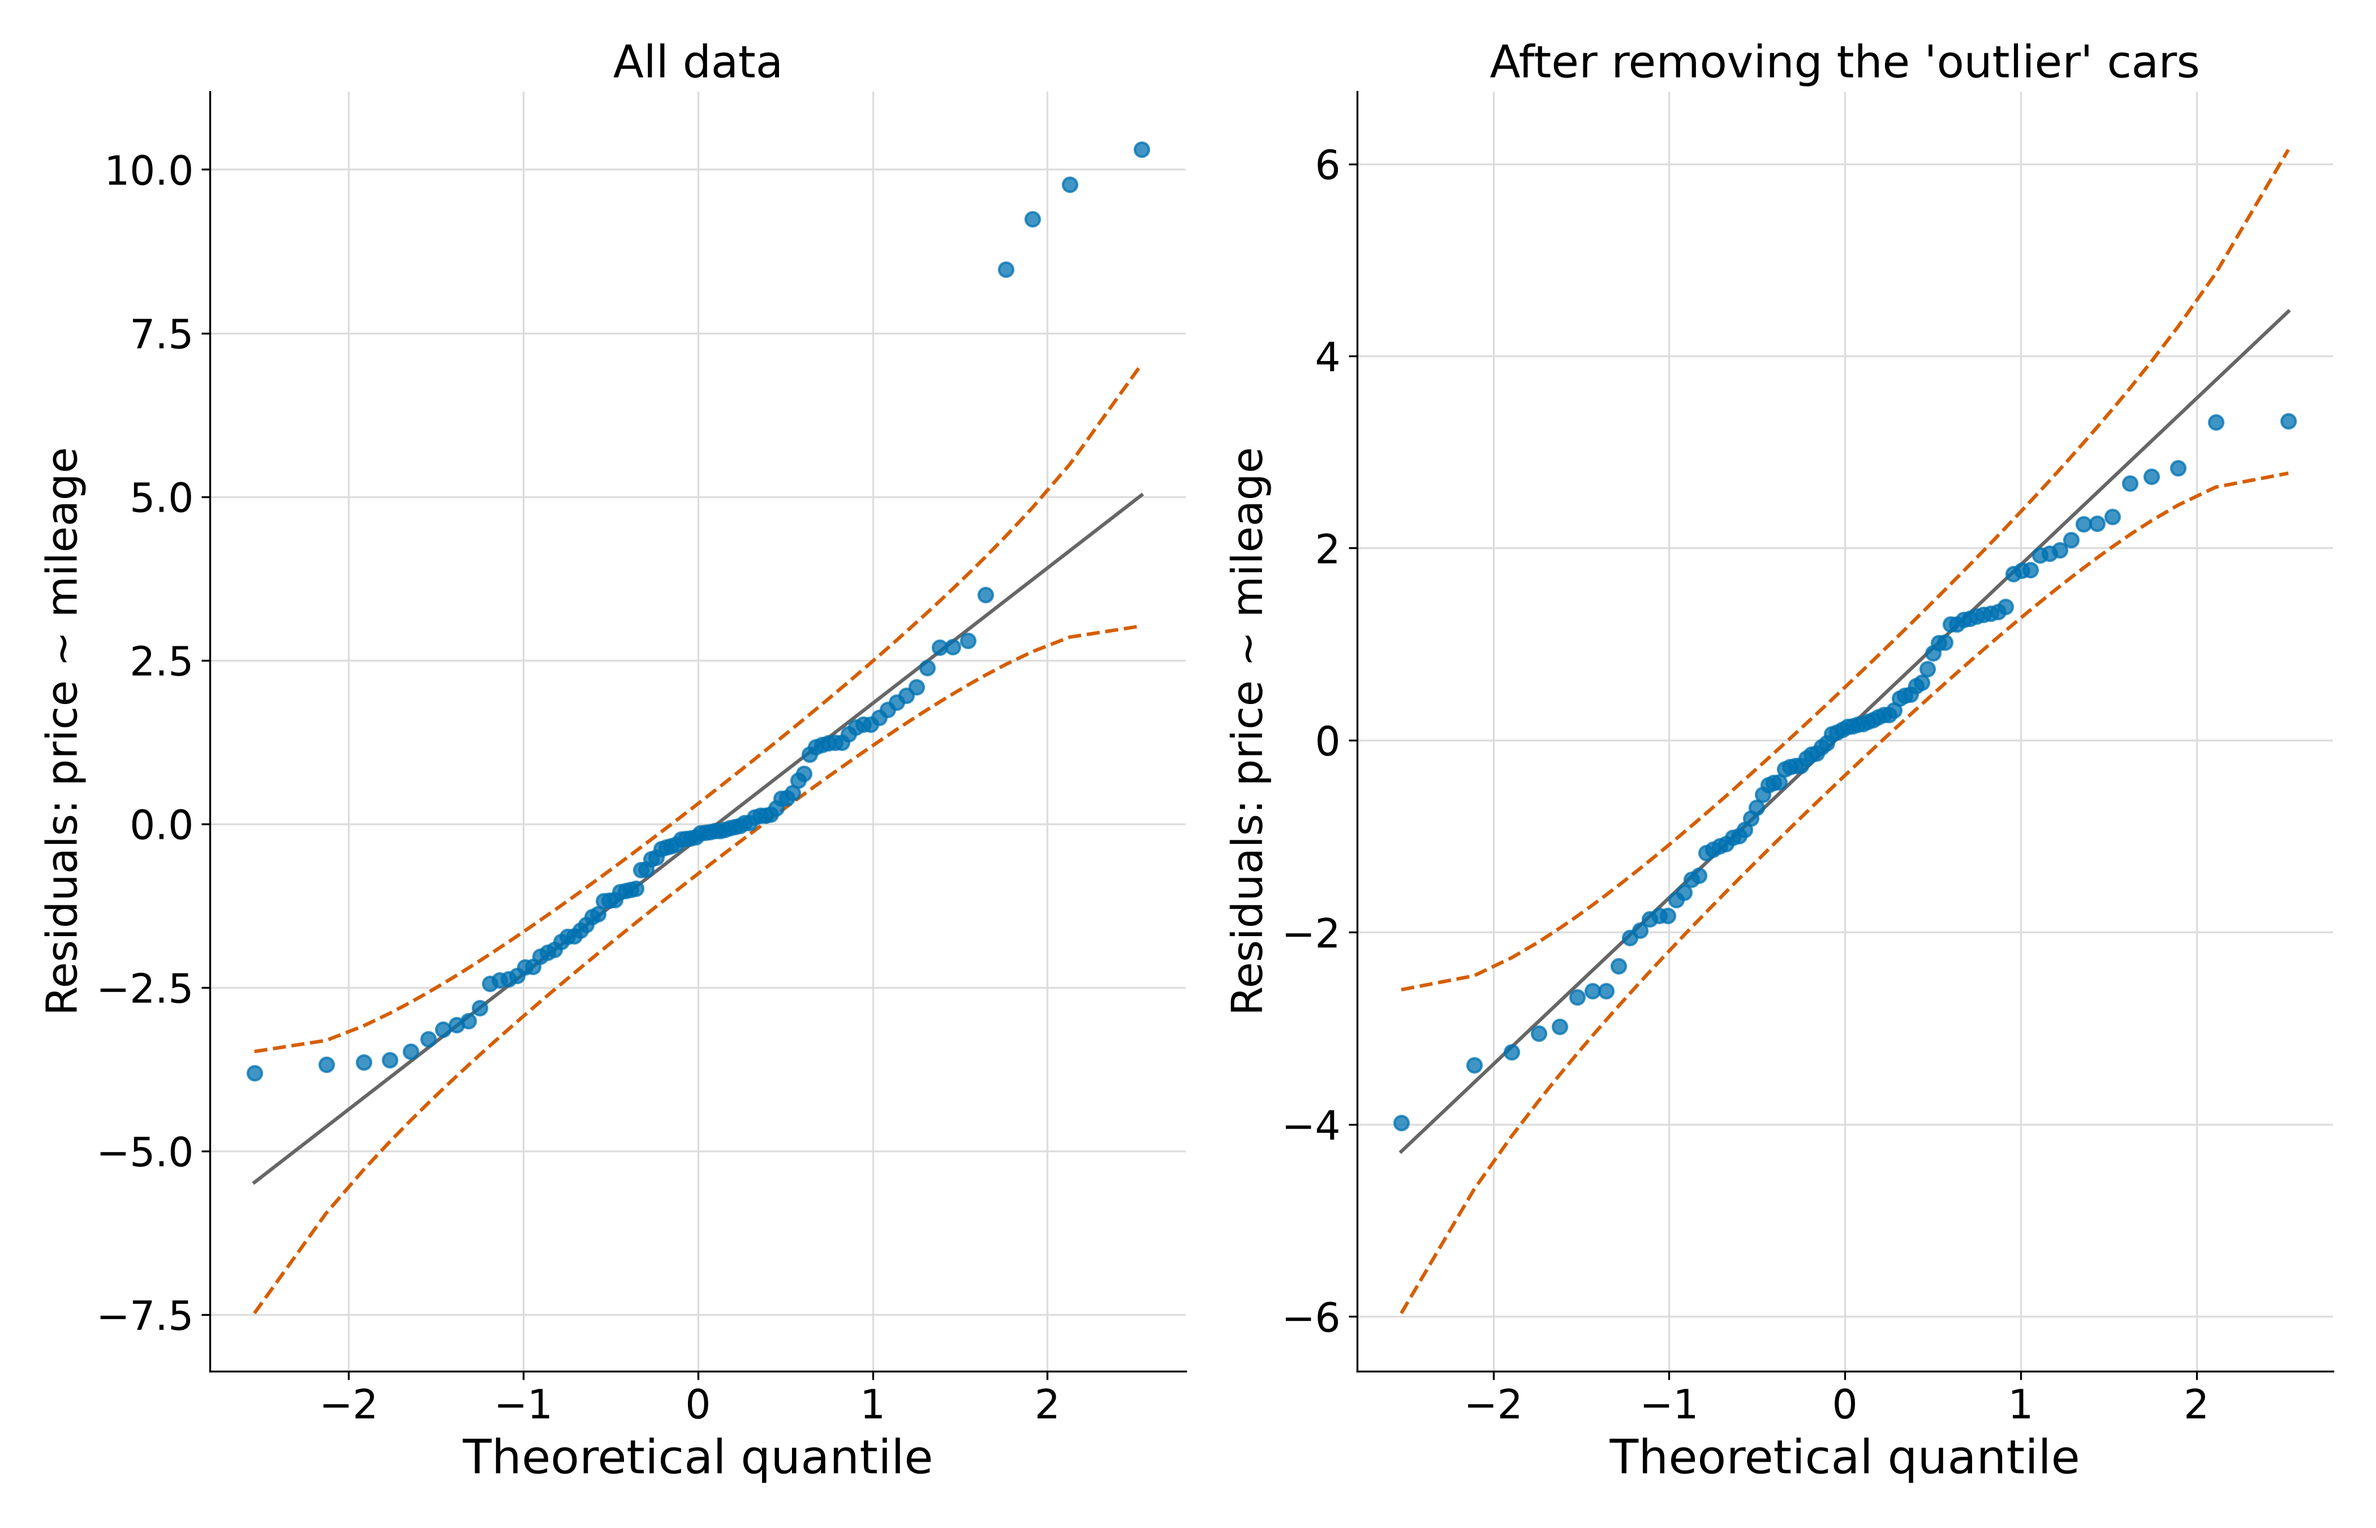
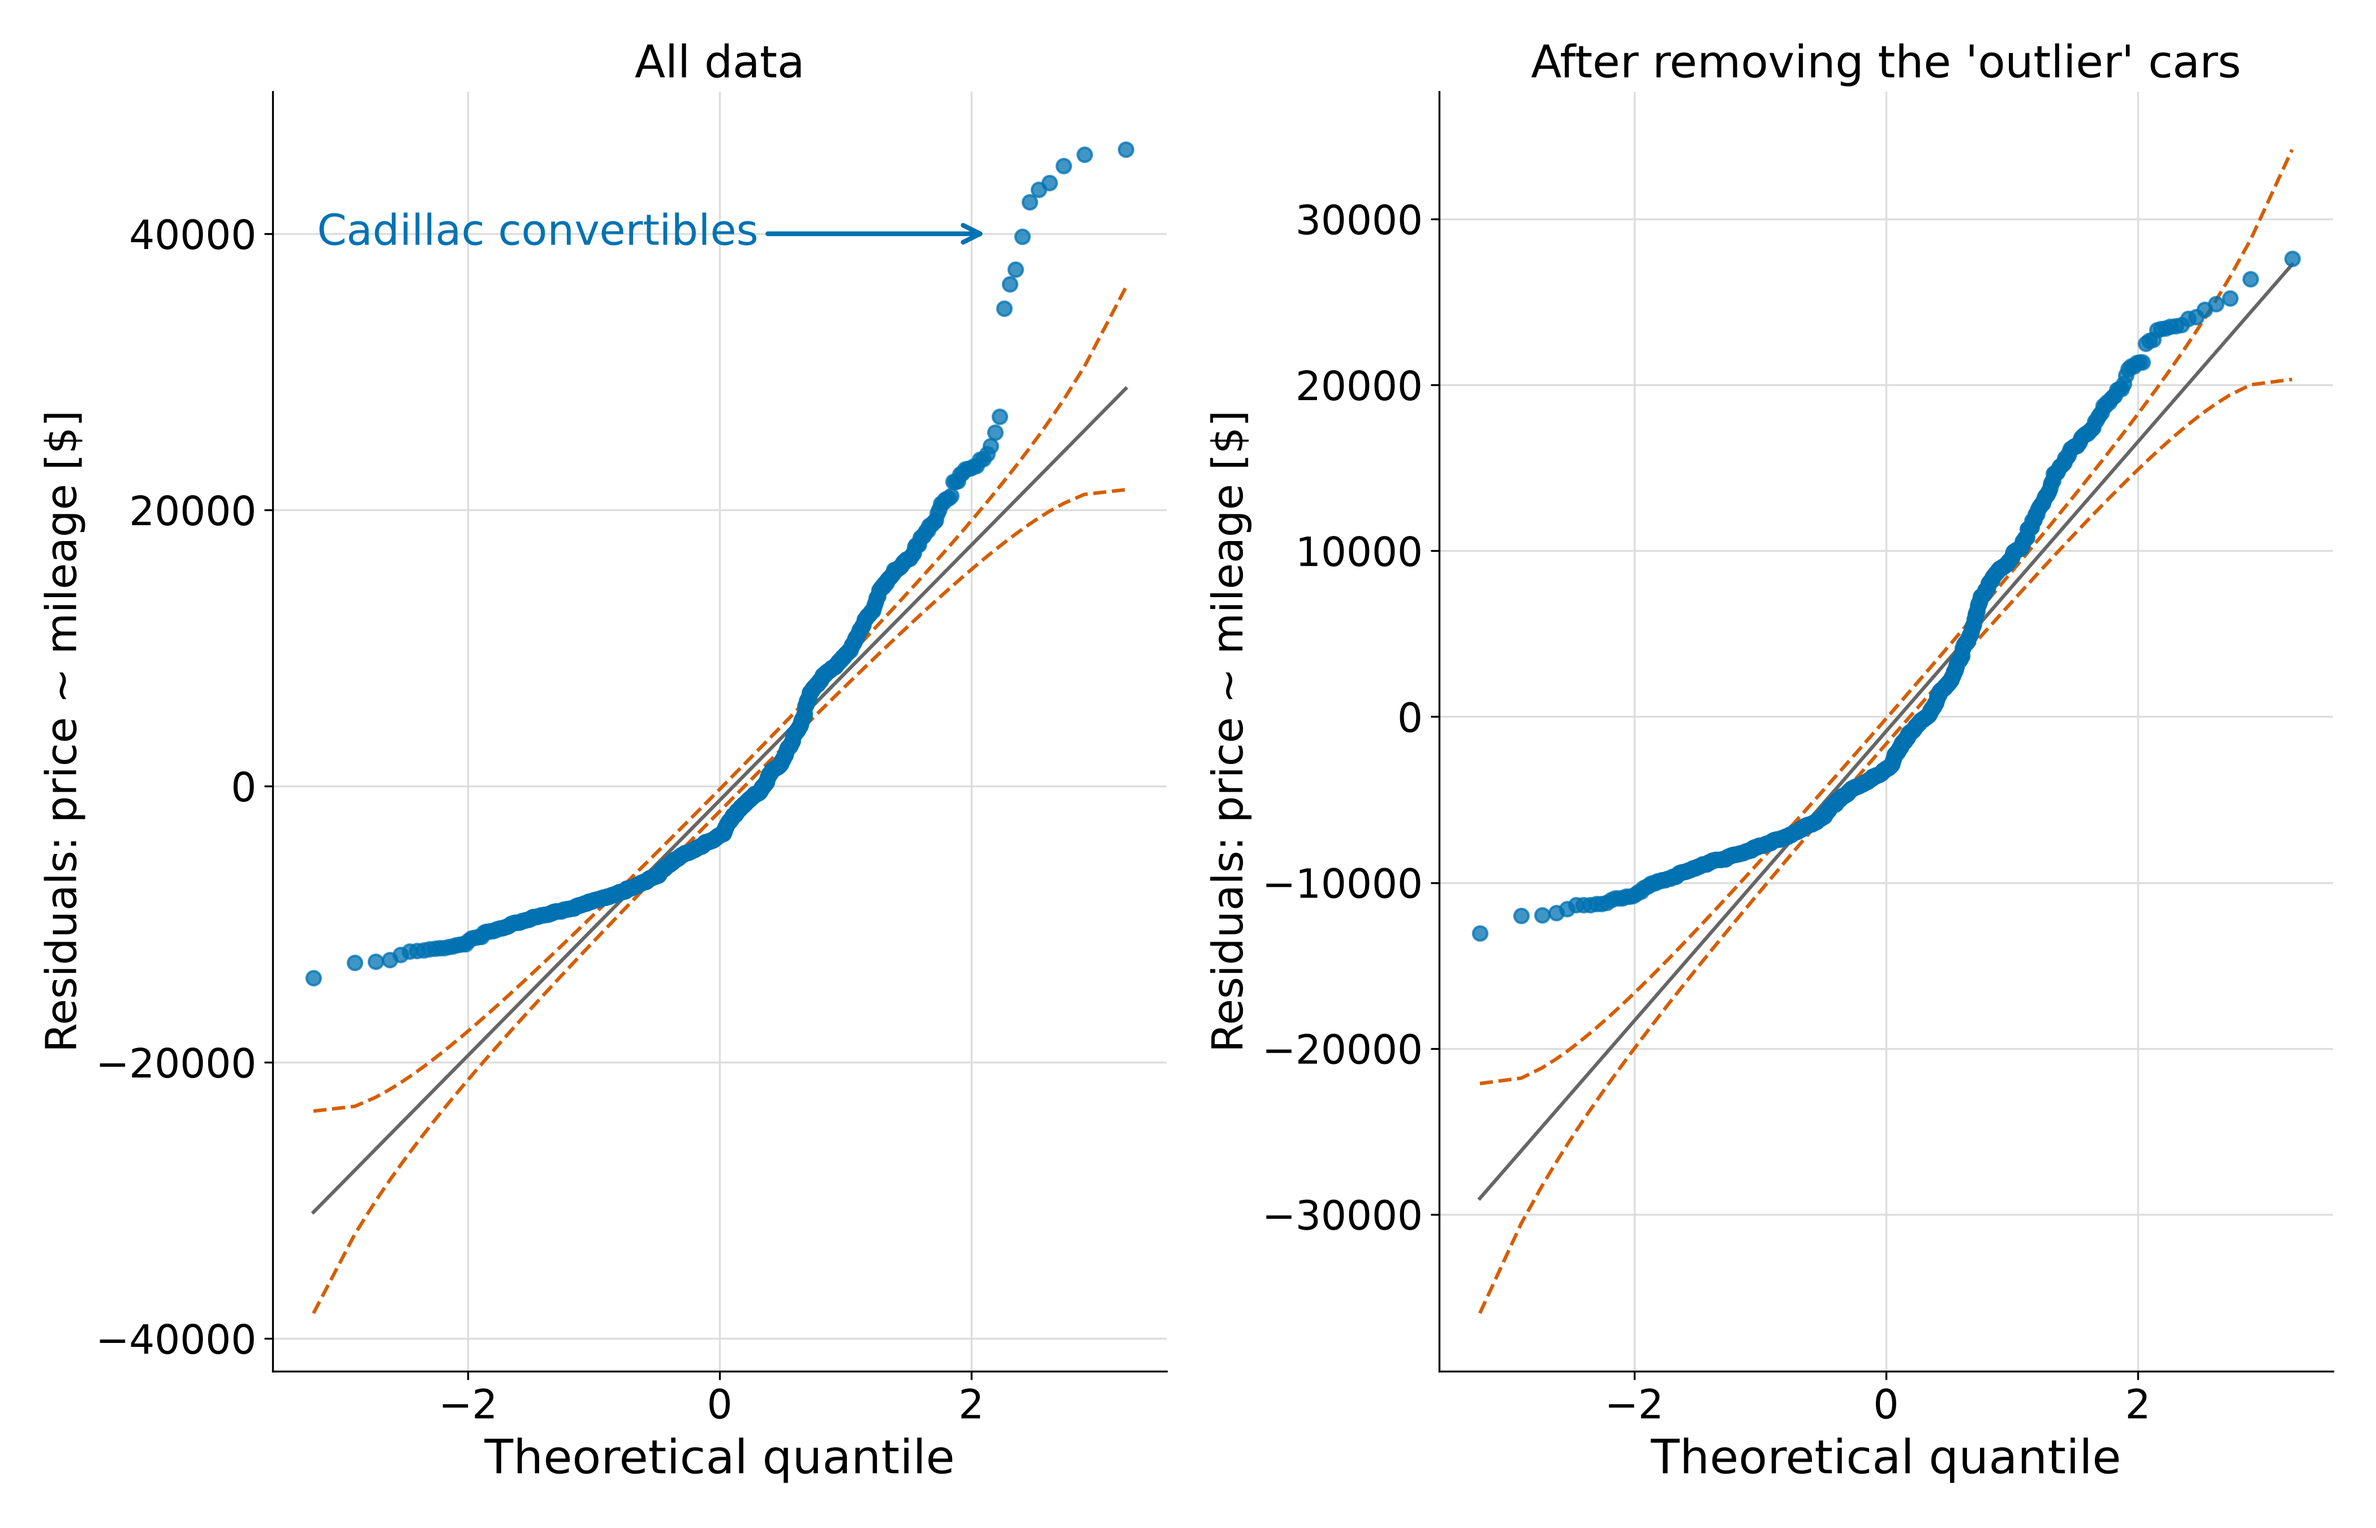
Rebuild the used-vehicle residual q-q figure from the real Kuiper dataset
The replacement figure had substituted simulated data in thousands of
dollars, which changed the y axis and contradicted the chapter: the
prose quotes b1 = -0.173 with SE = $9789 (all data) and b1 = -0.155
with SE = $8655 (Cadillacs removed), and states the residuals stay
very non-normal after removal.

Rebuilt from kuiper.csv (already in this directory, and what the old
non-normal-errors.R read): 804 vehicles, residuals in dollars spanning
-14,000 to +46,000, rows 151-160 removed for the second panel, and the
original's "Cadillac convertibles" annotation restored. The script
prints the slope and standard error on every run; both pairs reproduce
the prose exactly, and the after-removal panel remains visibly
non-normal, as the text says.

Claude-Session: https://claude.ai/code/session_013gbucEbmko1QaQPZDrjLhx

diff --git a/least-squares/regression_diagnostics_figures.py b/least-squares/regression_diagnostics_figures.py
@@ -23,10 +23,12 @@ scripts (``correlation-calculation.R``, ``show-residual-patterns.R``,
   nonlinear system with a locally linear model region, and the
   residual plots that reveal the nonlinearity when the whole range is
   fit with a straight line.
-- ``non-normal-errors-outliers.png``: q-q plots of residuals from a
-  price-mileage model, before and after removing a handful of
-  collector cars (illustrative simulated stand-in for the original
-  cars dataset).
+- ``non-normal-errors-outliers.png``: q-q plots of the residuals from
+  the price-mileage model of the 804-vehicle Kuiper dataset
+  (``kuiper.csv``, in this directory), before and after removing the
+  ten Cadillac convertibles. The slope and standard error printed on
+  each run match the numbers quoted in the chapter (b1 = -0.173 and
+  SE = $9789 before; b1 = -0.155 and SE = $8655 after).
 - ``non-normal-errors-transformation-required.png``: residual q-q
   plots before and after a square-root transformation of y.
 - ``logistic-regression-function.png``: an S-shaped link function
@@ -388,23 +390,37 @@ def nonlinear_detection(outdir: pathlib.Path) -> None:
 
 
 def non_normal_errors(outdir: pathlib.Path) -> None:
-    rng = np.random.default_rng(9)
-    n = 90
-    mileage = rng.uniform(20, 120, n)  # thousands of km
-    price = 25.0 - 0.12 * mileage + rng.normal(0, 1.6, n)  # thousands
-    collectors = rng.choice(n, 4, replace=False)
-    price[collectors] += rng.uniform(6, 12, 4)
+    # The real dataset the original used (kuiper.csv, in this
+    # directory): 804 used GM vehicles, price against mileage. Rows
+    # 151 to 160 are the Cadillac convertibles the prose discusses.
+    import pandas as pd
 
-    _, _, _, resid_all = _fit(mileage, price)
-    keep = np.ones(n, dtype=bool)
-    keep[collectors] = False
-    _, _, _, resid_clean = _fit(mileage[keep], price[keep])
+    cars = pd.read_csv(pathlib.Path(__file__).parent / "kuiper.csv")
+    mileage = cars["Mileage"].to_numpy(dtype=float)
+    price = cars["Price"].to_numpy(dtype=float)
+    slope_all, _, _, resid_all = _fit(mileage, price)
+
+    keep = np.ones(len(cars), dtype=bool)
+    keep[150:160] = False
+    slope_rm, _, _, resid_clean = _fit(mileage[keep], price[keep])
+    for label, slope, resid, k in (
+        ("all data", slope_all, resid_all, 2),
+        ("Cadillacs removed", slope_rm, resid_clean, 2),
+    ):
+        se = np.sqrt(np.sum(resid ** 2) / (len(resid) - k))
+        print(f"price ~ mileage, {label}: b1 = {slope:.4f}, SE = {se:.0f}")
 
     fig, axes = plt.subplots(1, 2, figsize=(14, 9))
     _qq_axes(axes[0], resid_all, "All data")
     _qq_axes(axes[1], resid_clean, "After removing the 'outlier' cars")
+    axes[0].annotate(
+        "Cadillac convertibles",
+        xy=(2.15, 40000), xytext=(-3.2, 40000),
+        arrowprops=dict(arrowstyle="->", color=BLUE, linewidth=2),
+        color=BLUE, fontsize=18, va="center",
+    )
     for ax in axes:
-        ax.set_ylabel("Residuals: price ~ mileage", fontsize=18)
+        ax.set_ylabel("Residuals: price ~ mileage [$]", fontsize=18)
     save(fig, outdir, "non-normal-errors-outliers.png")
 
 
